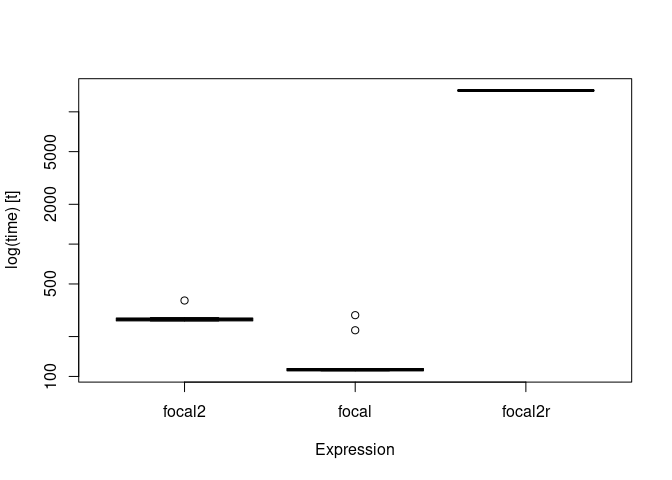
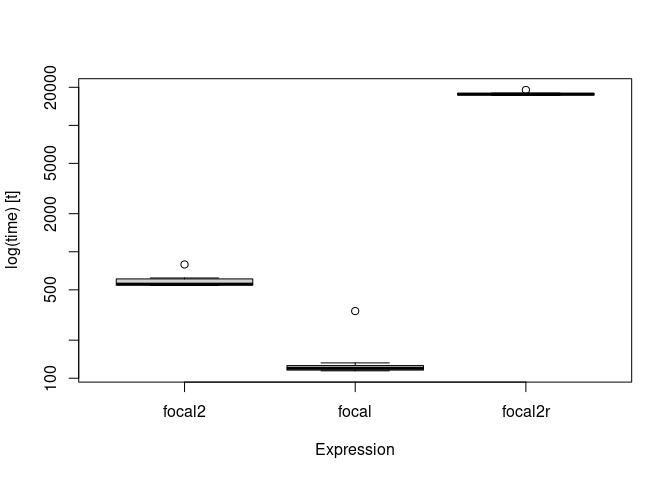
updated readme

diff --git a/README.md b/README.md
@@ -36,10 +36,6 @@ Once installed, the library can be loaded as follows.
 
 ``` r
 library(starsExtra)
-#> Loading required package: sf
-#> Linking to GEOS 3.8.0, GDAL 3.0.4, PROJ 6.3.1
-#> Loading required package: stars
-#> Loading required package: abind
 ```
 
 ## Documentation
@@ -63,7 +59,7 @@ carmel_mean15 = focal2(
 )
 ```
 
-The calculation takes: 0.3050735 secs.
+The calculation takes: 0.5625446 secs.
 
 The original DEM and the filtered DEM can be combined and plotted with
 the following expressions:
@@ -80,13 +76,12 @@ plot(r, breaks = "equal", col = terrain.colors(10), key.pos = 4)
 
 The following code section compares the calculation time of `focal2` in
 the above example with `raster::focal` (both using C/C++) and the
-reference method `starsExtra:::focal2r` (using R code only).
+reference method `focal2r` (using R code only).
 
 ``` r
 library(microbenchmark)
 library(starsExtra)
 library(raster)
-#> Loading required package: sp
 
 data(carmel)
 carmelr = as(carmel, "Raster")
@@ -94,19 +89,15 @@ carmelr = as(carmel, "Raster")
 res = microbenchmark(
   focal2 = focal2(carmel, w = matrix(1, 15, 15), fun = "mean", na.rm = FALSE), 
   focal = focal(carmelr, w = matrix(1, 15, 15), fun = mean, na.rm = FALSE),
-  focal2r = starsExtra:::focal2r(carmel, k = 15, mean),
+  focal2r = focal2r(carmel, w = matrix(1, 15, 15), mean),
   times = 10
 )
 res
 #> Unit: milliseconds
-#>     expr        min         lq       mean     median         uq        max
-#>   focal2   262.4002   262.7809   279.7792   269.7921   276.1204   374.7612
-#>    focal   110.1638   110.3018   140.8258   112.3260   114.7384   290.3110
-#>  focal2r 14411.5980 14436.0866 14496.4930 14489.4565 14542.2283 14628.9805
-#>  neval
-#>     10
-#>     10
-#>     10
+#>     expr        min         lq       mean     median         uq        max neval
+#>   focal2   542.3506   546.0164   587.9224   554.3557   609.8761   793.5663    10
+#>    focal   114.3561   115.9764   142.2213   119.7932   125.9327   339.7064    10
+#>  focal2r 17236.5407 17367.5100 17734.2765 17634.1378 17902.5663 19048.0060    10
 ```
 
 ``` r
